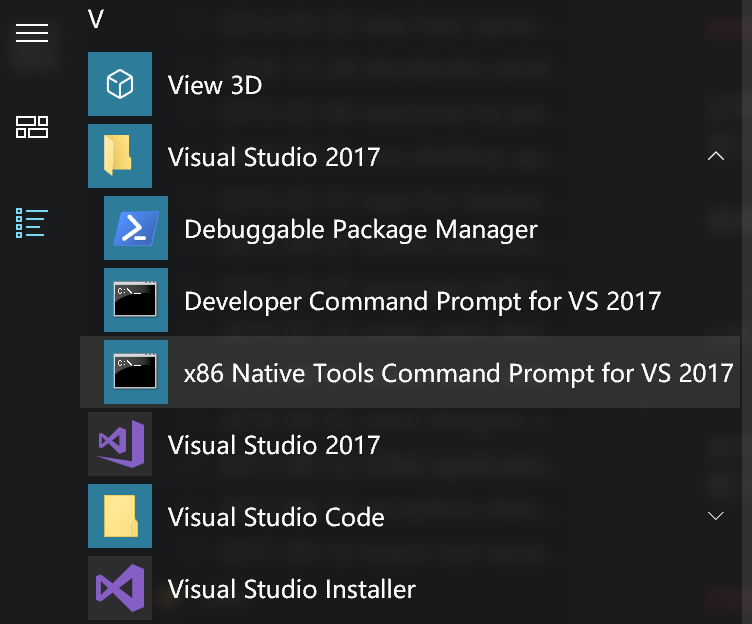
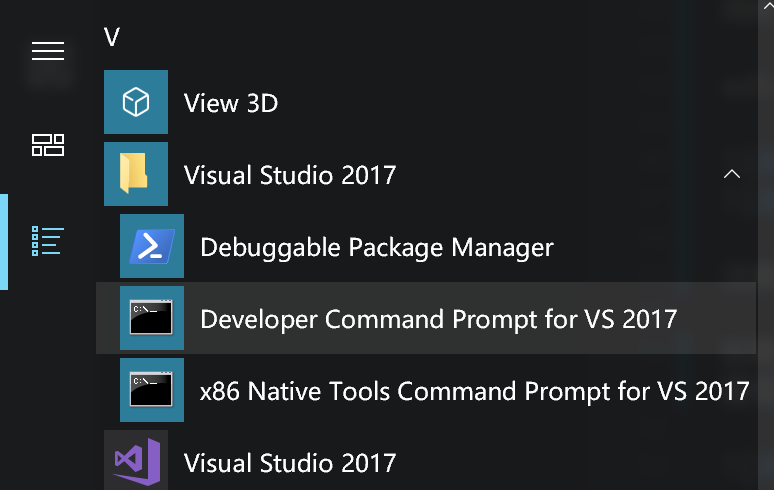
Use another image for 32-bit post.

diff --git a/_posts/2017-09-12-32bit-application-use-large-memory.md b/_posts/2017-09-12-32bit-application-use-large-memory.md
@@ -48,9 +48,11 @@ editbin 改之前和改之后用 dumpbin 查看我们的程序头信息，得到
 
 注意到 `FILE HEADER VALUES` 块的倒数第二行多出了 `Application can handle large (>2GB) addresses`。
 
-如果没发现，一定是你命令执行中发生了错误，检查一下吧！最容易出现的错误是执行后发现**根本就没有这个命令**。是的，`editbin` 命令从哪里来呢？
+如果没发现，一定是你命令执行中发生了错误，检查一下吧！最容易出现的错误是执行后发现**根本就没有这个命令**。是的，`editbin` 命令从哪里来呢？可以在开始菜单中的 Visual Studio 文件夹中查找 Developer Command Prompt for VS 2017，运行这个启动的命令行中就带有 editbin 和 dumpbin。
 
 ![本机工具提示符]({{ site.baseurl }}/assets/2017-09-12-where-to-find-editbin.png)
+
+如果希望能够在 Visual Studio 编译的时候自动调用这个工具，请参见：[LargeAddressAware Visual Studio 2015 C#](https://stackoverflow.com/questions/31565532/largeaddressaware-visual-studio-2015-c-sharp)。
 
 #### 编译成 AnyCPU (Prefer 32-bit)
 
